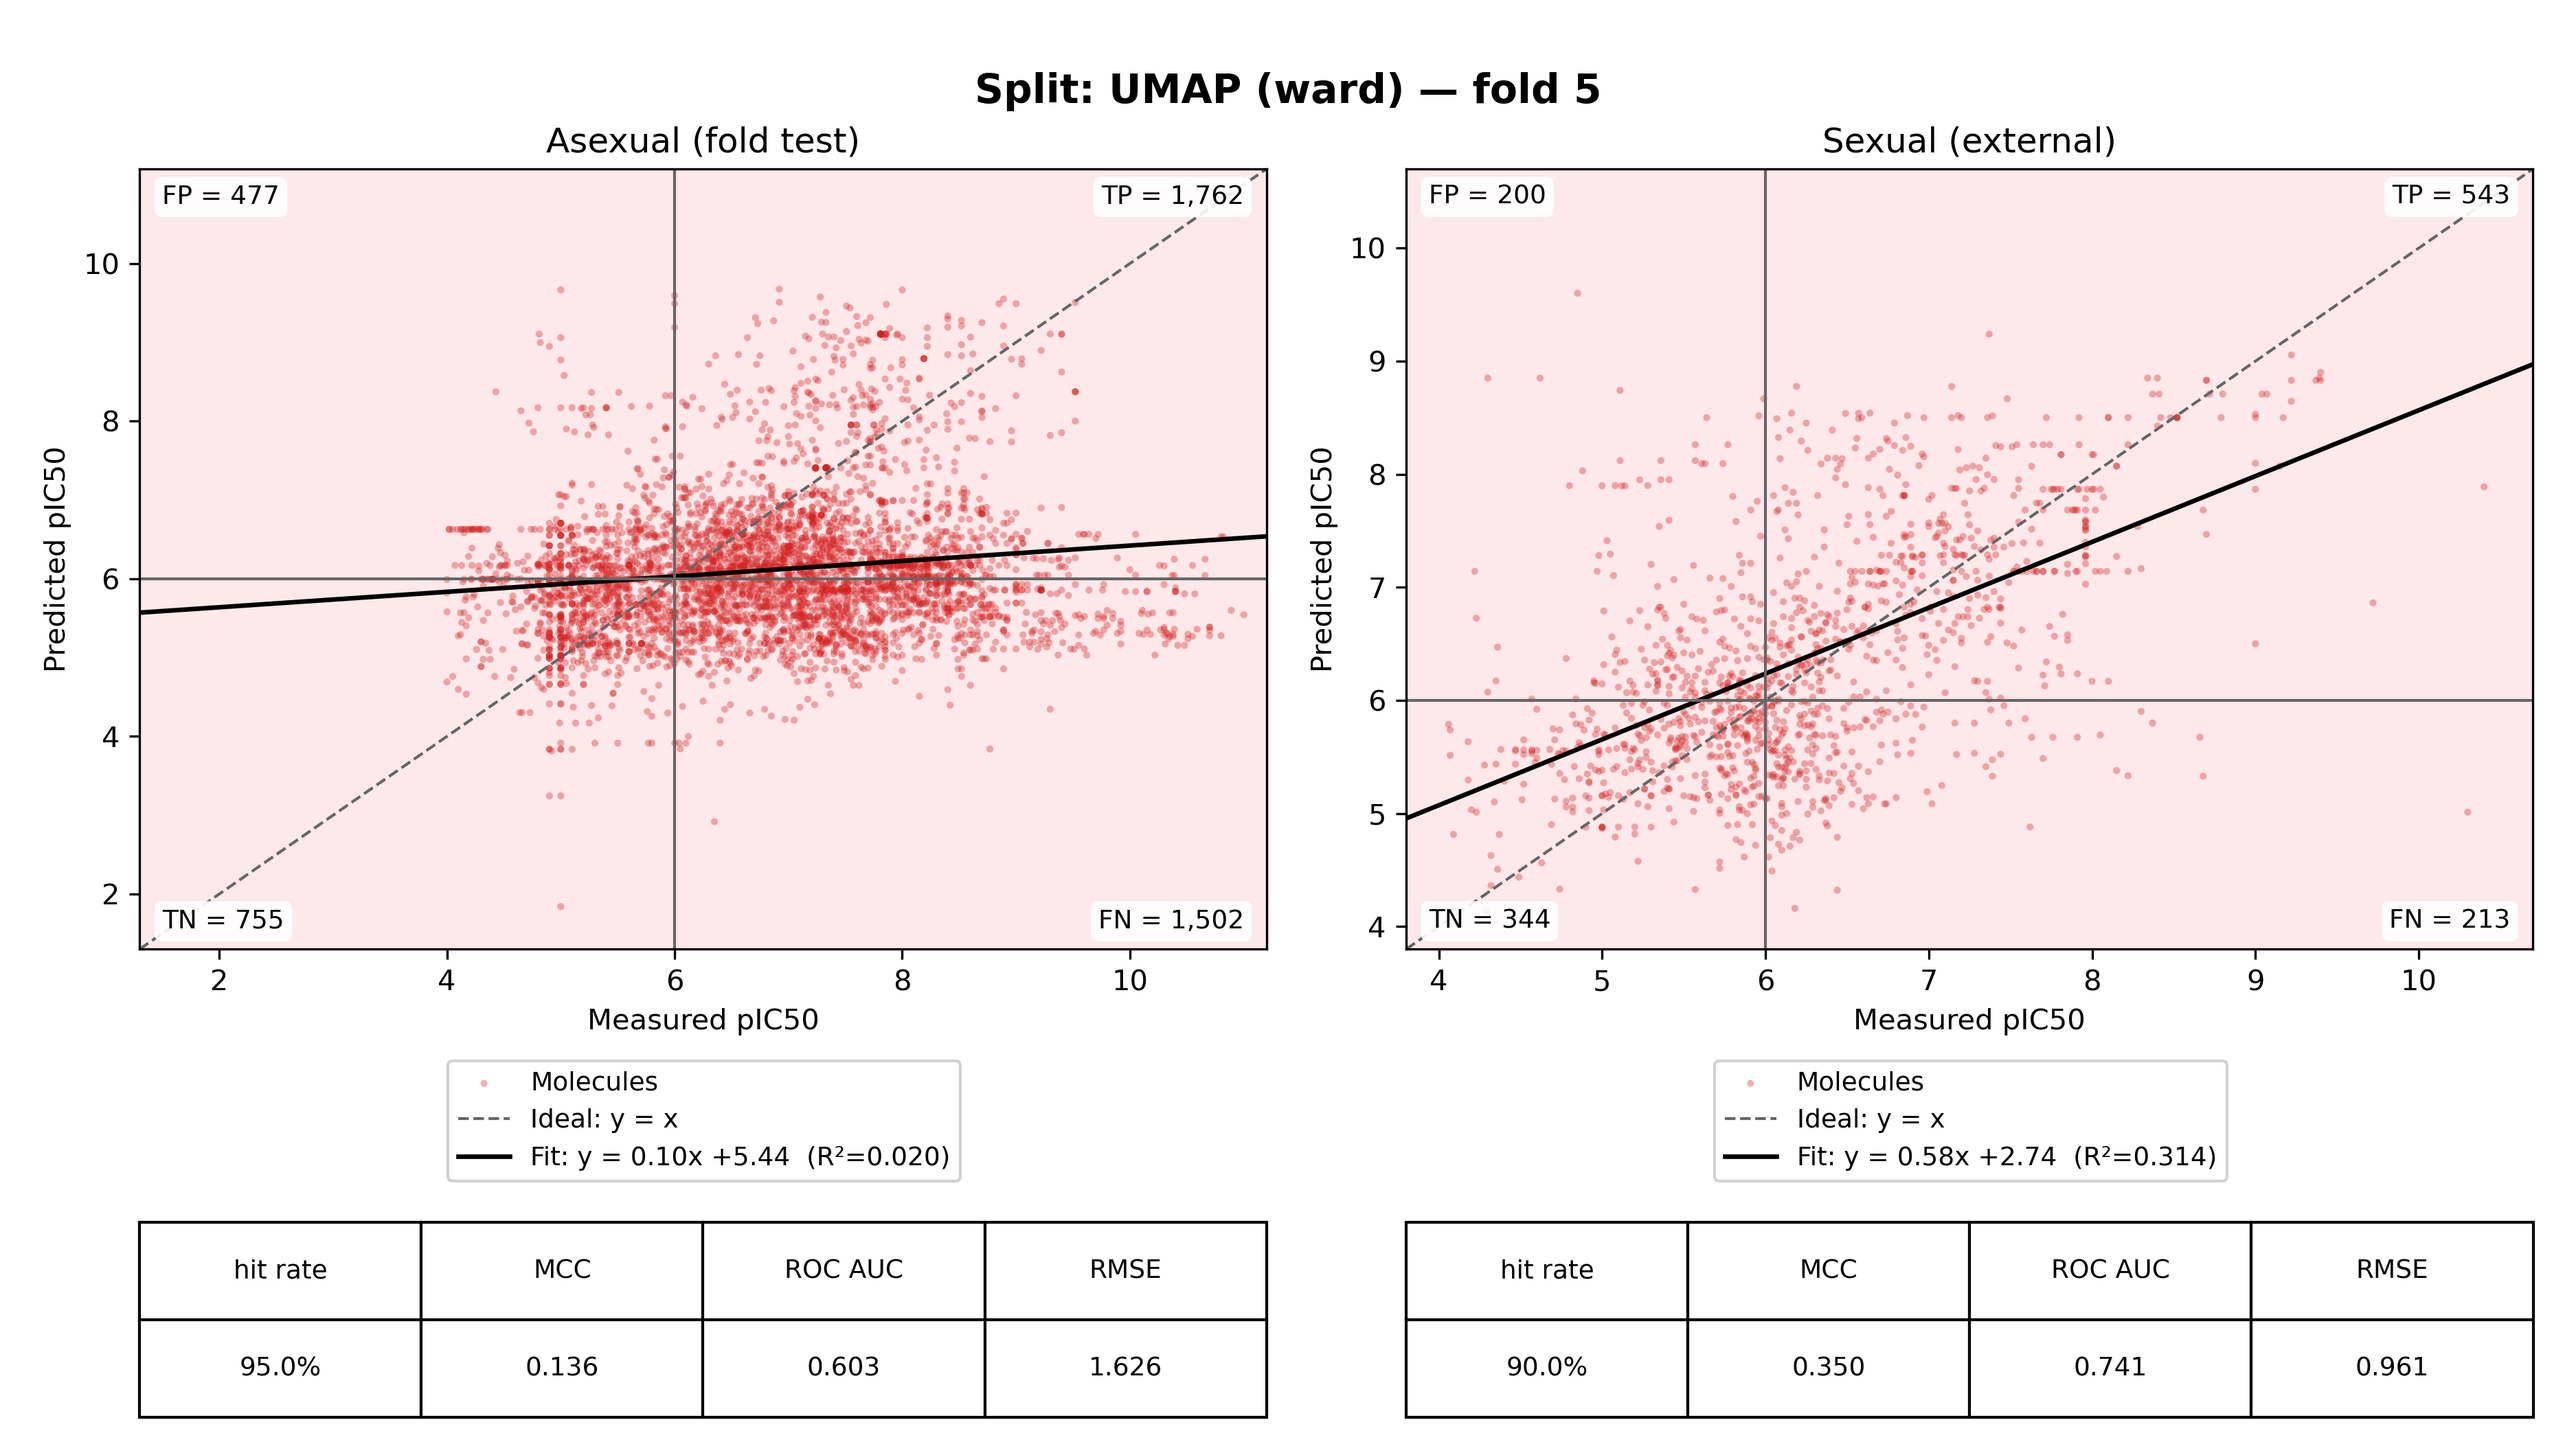
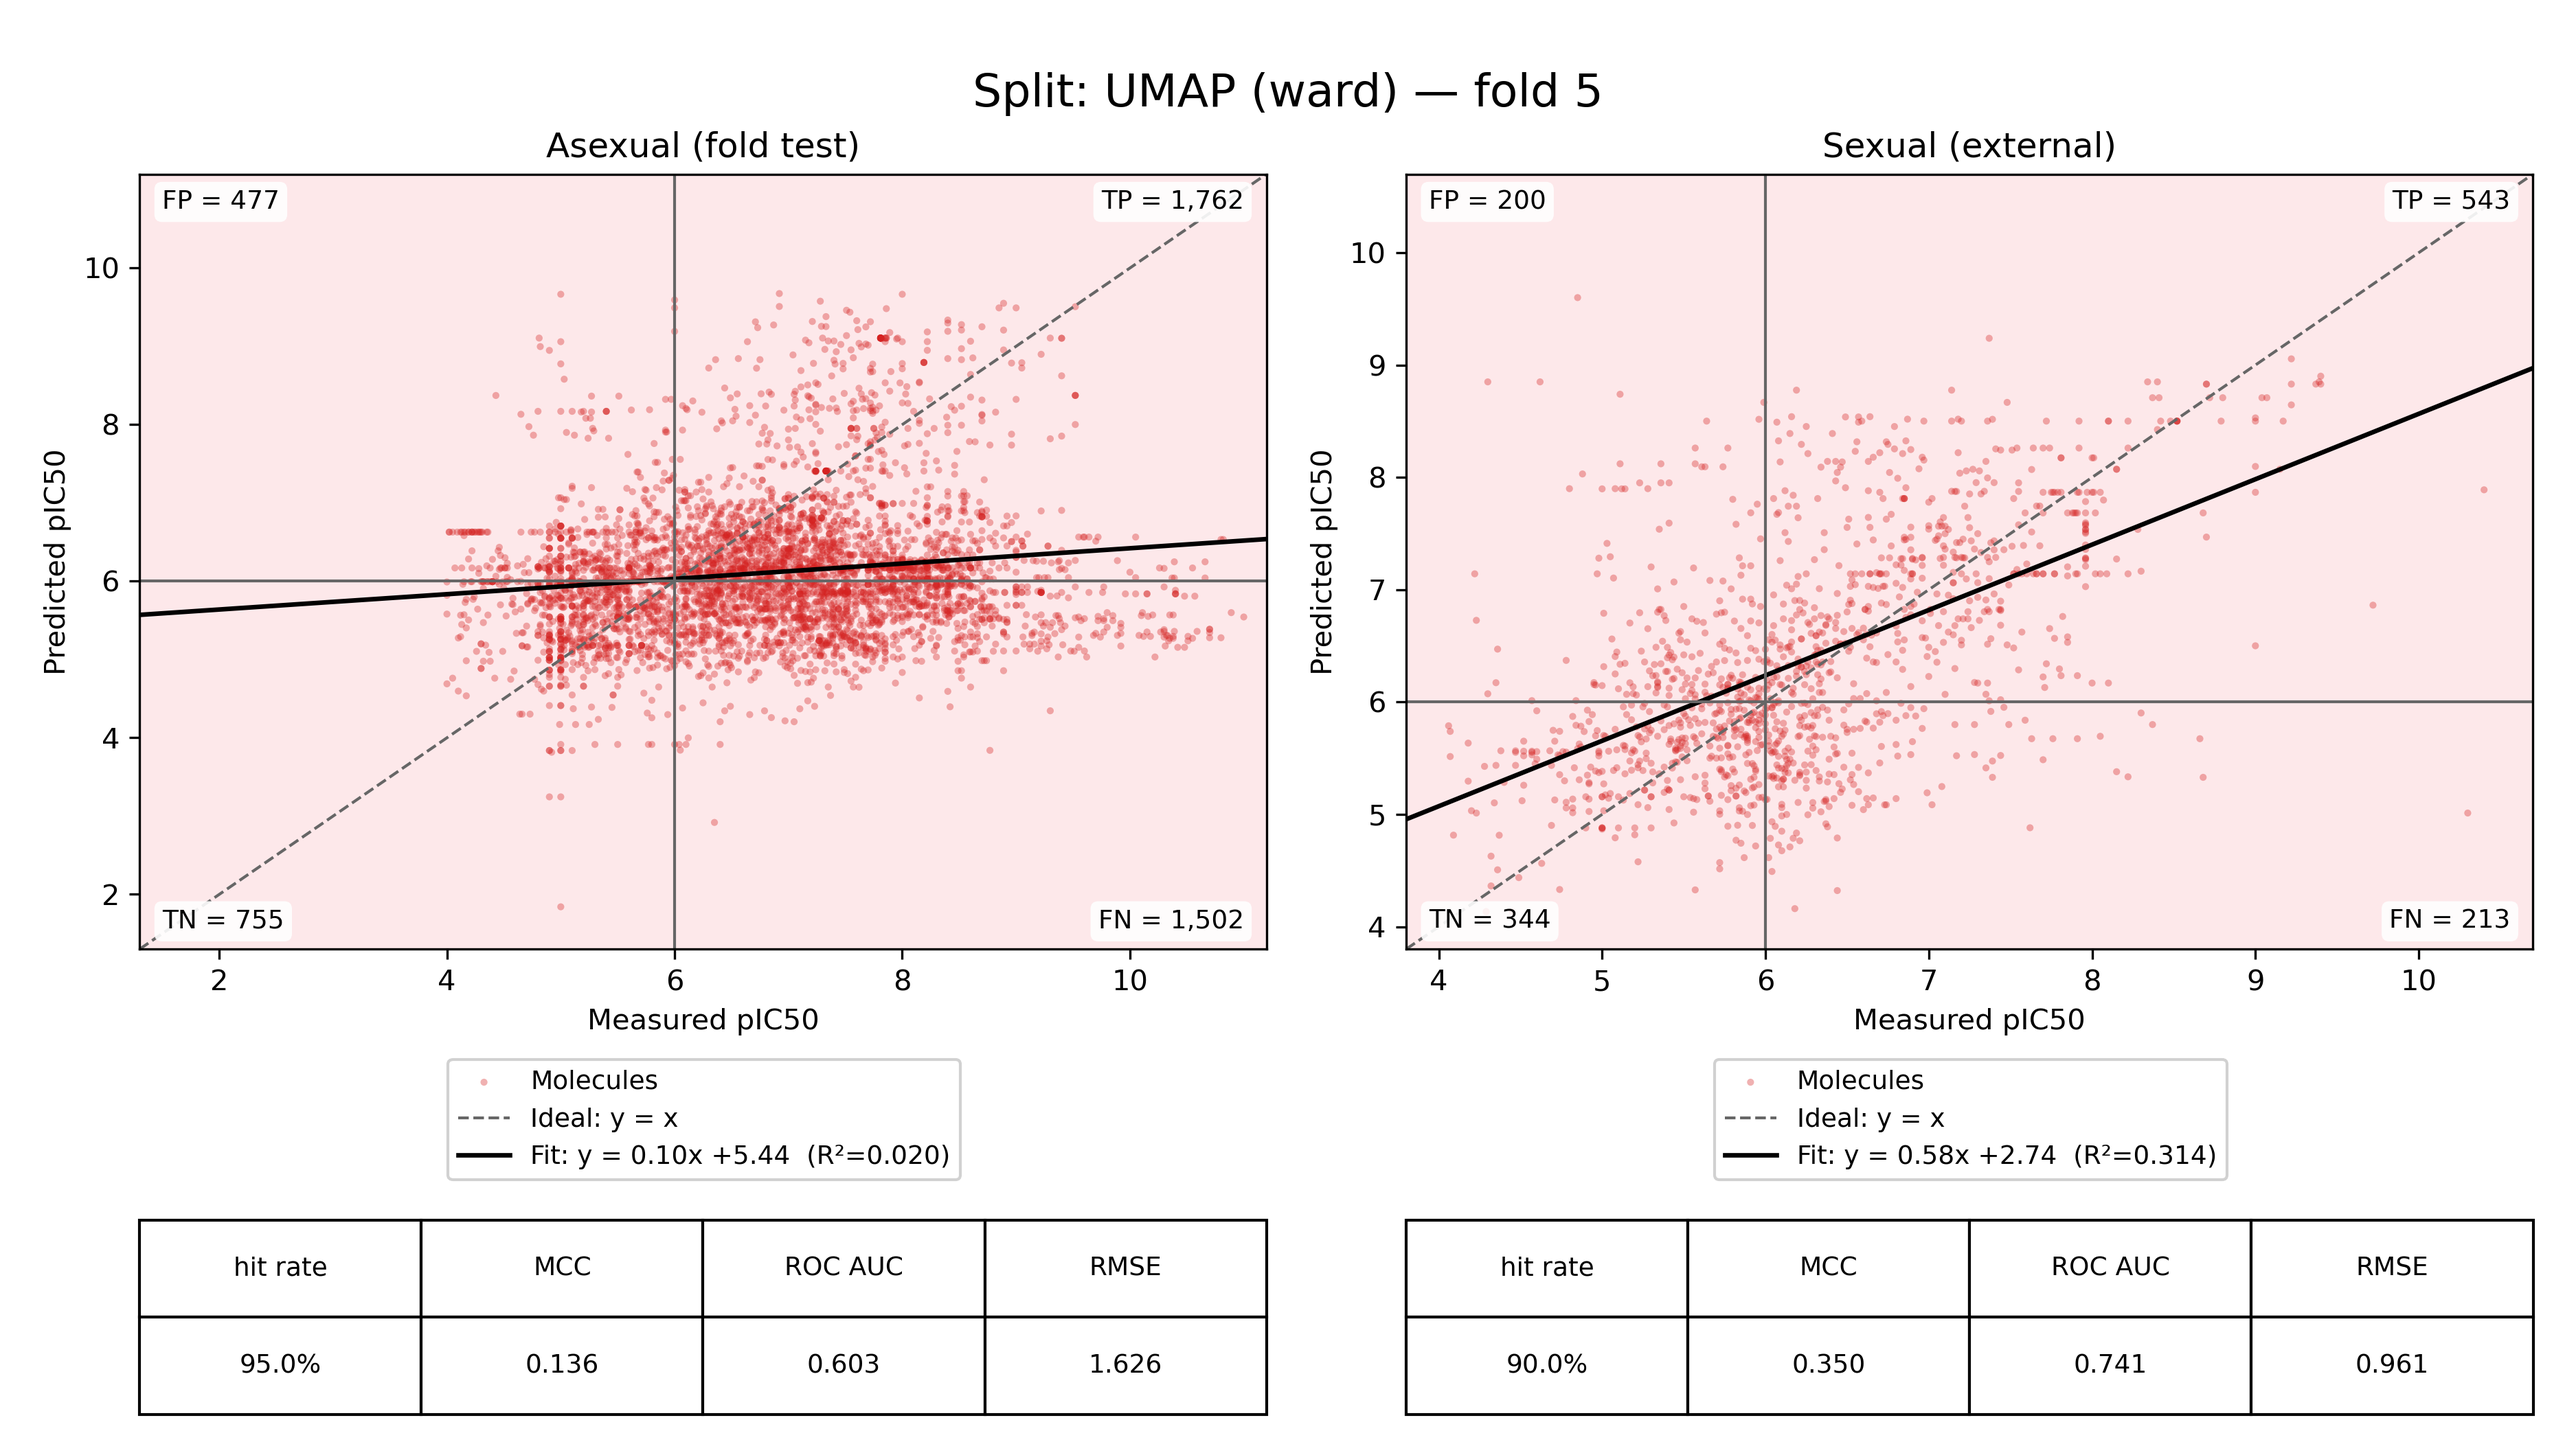
updating scatter size font

diff --git a/p2_models/analysis_outputs/figures/scat.py b/p2_models/analysis_outputs/figures/scat.py
@@ -173,7 +173,7 @@ for split, fold in SELECTED:
     fig, axes = plt.subplots(1, 2, figsize=(12.5, 7.0))
     # big label on top with split name + fold
     split_name = SPLIT_PRETTY.get(split, split.replace("_", " "))
-    fig.suptitle(f"Split: {split_name} — fold {fold}", fontsize=14, fontweight="bold", y=0.95)
+    fig.suptitle(f"Split: {split_name} — fold {fold}", fontsize=16, y=0.95)
 
     draw_panel(axes[0], df_asex, "Asexual (fold test)")
     draw_panel(axes[1], df_sex,  "Sexual (external)")
